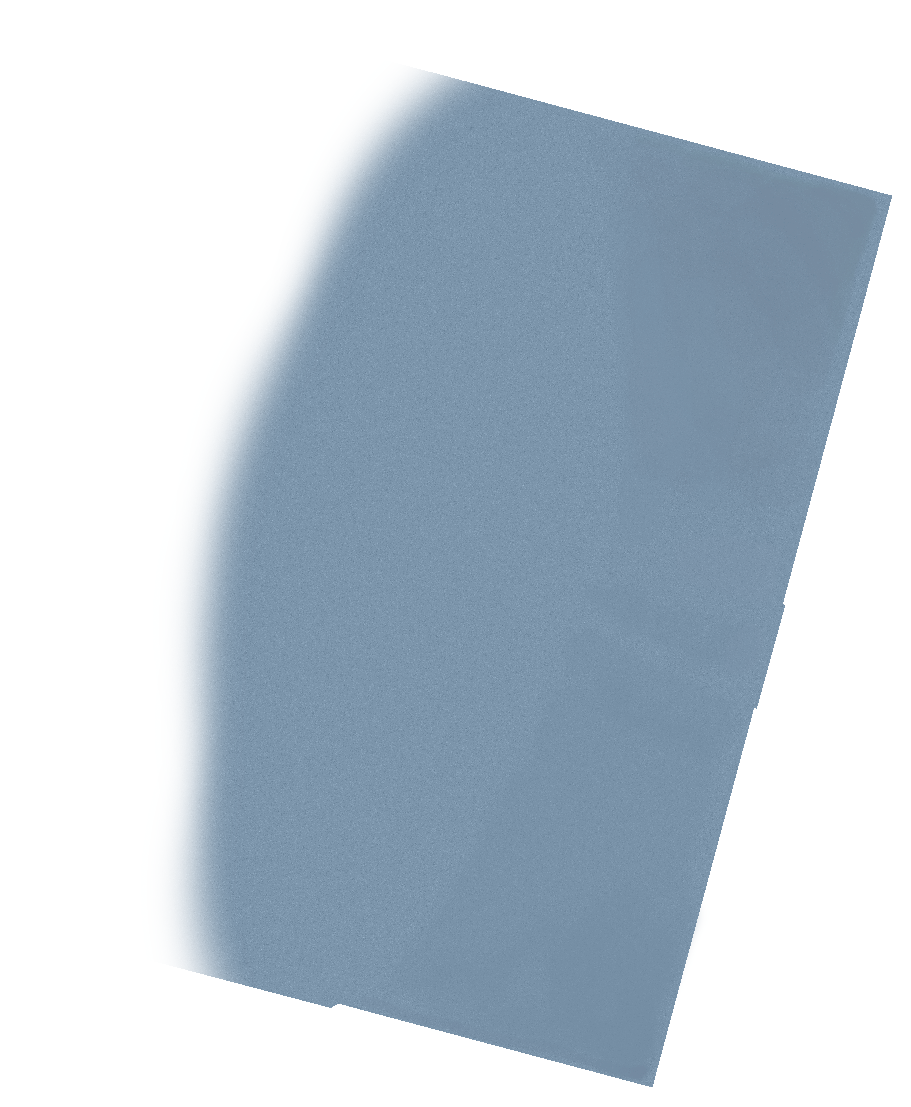
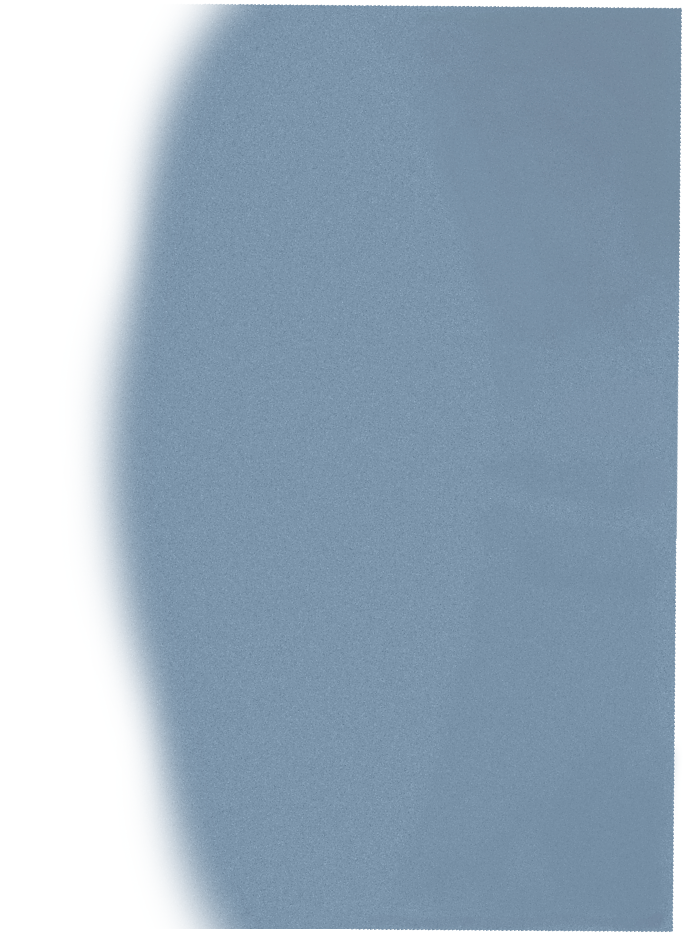
Update animations to use non-rotated images

diff --git a/src/pages/InvitationPage/styled.js b/src/pages/InvitationPage/styled.js
@@ -1,39 +1,37 @@
 import styled, { keyframes } from 'styled-components';
 import cardInvitation from '../../images/invitation/card_invitation.png';
-import inviteRotated from '../../images/invitation/invite_rotated.png';
 import envelopeBottom from '../../images/invitation/envelope_bottom.png';
 import envelopeTop from '../../images/invitation/envelope_top.png';
 
 import paperTexture from '../../images/paper_texture.jpg';
-import { accentColorGreen } from '../../constants';
 
 const slideIn = keyframes`
     0% {
-        transform: translateX(-110%) rotate(-10deg);
+        transform: translateX(-110%) rotate(25deg);
     }
     100% {
-        transform: translateX(0) rotate(0deg);
+        transform: translateX(0) rotate(15deg);
     }
 `;
 
 const openEnvelope = keyframes`
     from {
-        transform: translate(0, 0);
+        transform: translate(0, 0) rotate(15deg);
     }
     to {
-        transform: translate(-10vw, ${20 / 0.26794919243}vh);
+        transform: translate(-10vw, ${20 / 0.26794919243}vh) rotate(15deg);
     }
 `;
 
 const openCard = keyframes`
     0% {
-        transform: translate(0, 0);
+        transform: translate(0, 0) rotate(15deg);
     }
     60% {
-        transform: translate(${2.5 / 4}vw, -${5 / 4 / 0.26794919243}vh) rotate(0deg);
+        transform: translate(${5 / 4}vw, -${5 / 4 / 0.26794919243}vh) rotate(15deg);
     }
     100% {
-        transform: translate(${2.5 / 4}vw, -${5 / 4 / 0.26794919243}vh) rotate(-15deg);
+        transform: translate(${5 / 4}vw, -${5 / 4 / 0.26794919243}vh) rotate(0deg);
     }
 `;
 
@@ -67,13 +65,19 @@ export const InvitationCard = styled.div`
     position: absolute;
     width: 79vw;
     height: 79vh;
-    background-image: url(${inviteRotated});
+    background-image: url(${cardInvitation});
     background-repeat: no-repeat;
     background-size: contain;
     background-position: center center;
     animation: ${props => props.$isOpened ? openCard : slideIn} ${props => props.$isOpened ? '3s' : '1.5s'} cubic-bezier(0.25, 0.46, 0.45, 0.94) forwards;;
     z-index: 2;
     transition: transform 0.4s cubic-bezier(0.165, 0.84, 0.44, 1);
+
+    &:hover {
+        transform: ${props => props.$isOpened
+        ? `translate(${5 / 4}vw, -${5 / 4 / 0.26794919243}vh) rotate(15deg) scale(1.15)`
+        : 'rotate(15deg) scale(1.15)'};
+    }
 `;
 
 
@@ -87,6 +91,13 @@ export const EnvelopeBottom = styled.div`
     background-position: center center;
     animation: ${props => props.$isOpened ? openEnvelope : slideIn} 1.5s cubic-bezier(0.25, 0.46, 0.45, 0.94) forwards;;
     z-index: 1;
+    transition: transform 0.4s cubic-bezier(0.165, 0.84, 0.44, 1);
+
+    &:hover {
+        transform: ${props => props.$isOpened
+        ? `translate(-10vw, ${20 / 0.26794919243}vh) rotate(15deg) scale(1.15)`
+        : 'scale(1.15)'};
+    }
 `;
 
 export const EnvelopeTop = styled.div`
@@ -99,6 +110,13 @@ export const EnvelopeTop = styled.div`
     background-position: center center;
     animation: ${props => props.$isOpened ? openEnvelope : slideIn} 1.5s cubic-bezier(0.25, 0.46, 0.45, 0.94) forwards;;
     z-index: 3;
+    transition: transform 0.4s cubic-bezier(0.165, 0.84, 0.44, 1);
+
+    &:hover {
+        transform: ${props => props.$isOpened
+        ? `translate(-10vw, ${20 / 0.26794919243}vh) rotate(15deg) scale(1.15)`
+        : 'scale(1.15)'};
+    }
 `;
 
 
@@ -118,7 +136,7 @@ export const NavigationArrow = styled.div`
     transition: transform 0.3s ease, color 0.3s ease;
 
     &:hover {
-        transform: translateY(-50%) translateX(5px);
+        transform: translateY(-50%) translateX(5px) scale(1.15);
         color: #000;
     }
 
